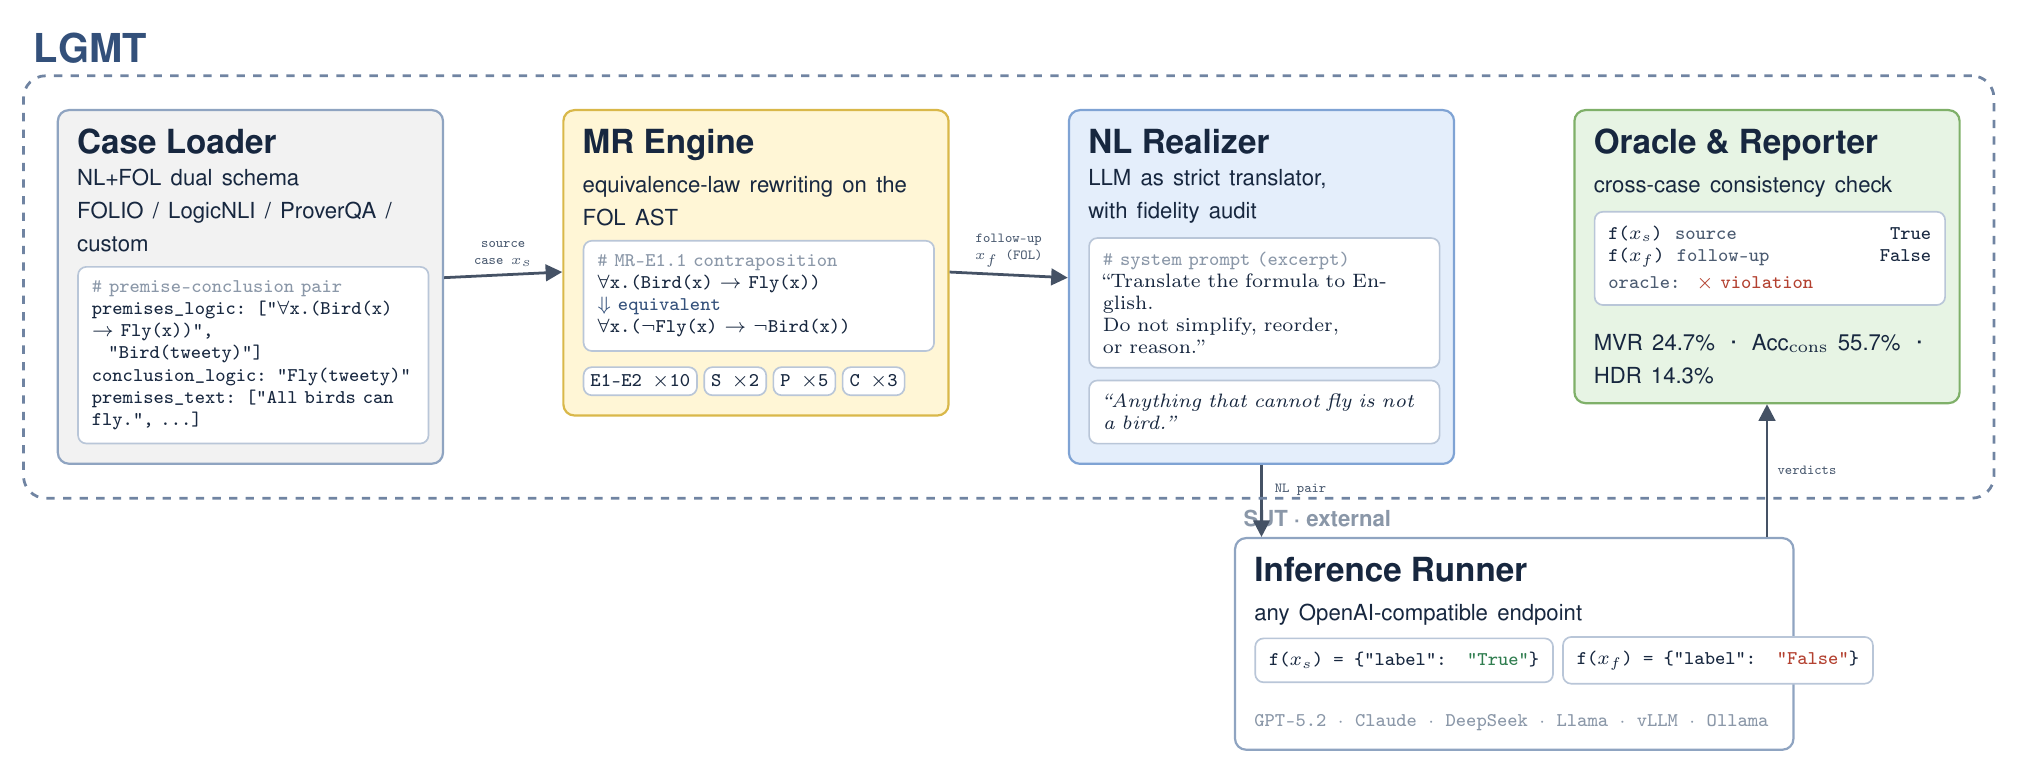
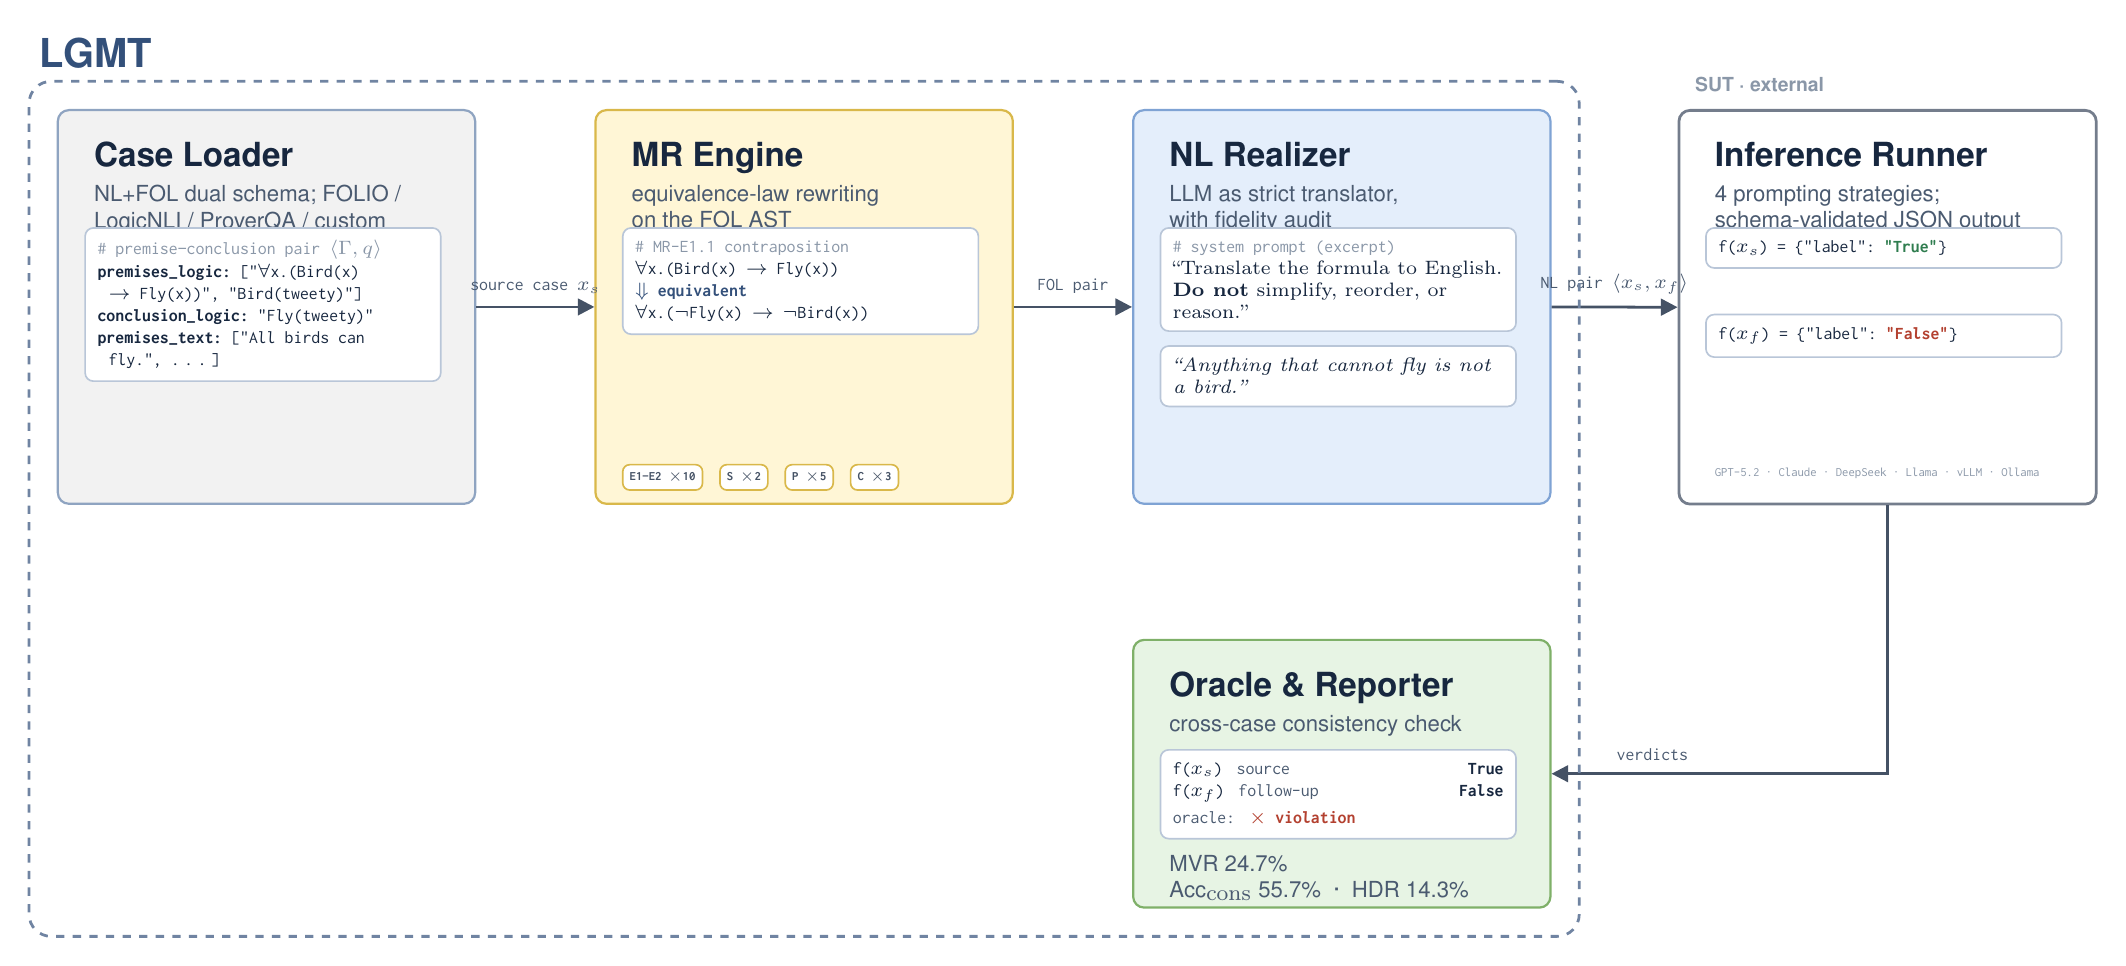
docs: TikZ architecture figure v3 — linear trio + external SUT loop-back, progressive edge labels (source case → FOL pair → NL pair → verdicts)

Changed region(s): [[0.0, 0.031, 0.999, 0.9935], [0.8741, 0.5899, 0.9054, 0.652], [0.8741, 0.6831, 0.9054, 0.7141]]

diff --git a/docs/architecture.tex b/docs/architecture.tex
@@ -1,11 +1,12 @@
-% LGMT architecture figure (TikZ, standalone).
+% LGMT architecture figure (TikZ, standalone, single-layer positioning).
 % Build PDF:  pdflatex fig-architecture.tex
 % Build PNG:  pdftoppm -png -r 200 fig-architecture.pdf architecture
-\documentclass[border=8pt]{standalone}
+\documentclass[border=10pt]{standalone}
 \usepackage{tikz}
 \usetikzlibrary{positioning,fit,arrows.meta,calc}
 \usepackage[T1]{fontenc}
 \usepackage{helvet}\renewcommand{\familydefault}{\sfdefault}
+\usepackage[varqu,varl,scaled=0.92]{inconsolata}
 
 \definecolor{ink}{HTML}{17273F}
 \definecolor{mute}{HTML}{4A5A70}
@@ -23,92 +24,89 @@
 \definecolor{okgreen}{HTML}{2F7D4F}
 
 \begin{document}
+\hyphenpenalty=10000\exhyphenpenalty=10000
 \begin{tikzpicture}[
   font=\sffamily,
-  stage/.style={draw, rounded corners=4pt, line width=0.8pt, align=left,
-                inner sep=7pt, text=ink},
+  stage/.style={draw, rounded corners=4pt, line width=0.8pt, text=ink,
+                minimum width=53mm, minimum height=50mm, inner sep=0pt},
+  stagetitle/.style={font=\sffamily\bfseries\large, text=ink, anchor=north west},
+  stagesub/.style={font=\sffamily\footnotesize, text=mute, anchor=north west, align=flush left},
   art/.style={draw=bd, fill=white, rounded corners=3pt, line width=0.6pt,
-              font=\ttfamily\scriptsize, align=left, inner sep=5pt, text=ink},
-  lbl/.style={font=\ttfamily\tiny, text=mute, align=center},
+              font=\ttfamily\scriptsize, align=flush left, inner sep=4.5pt, text=ink,
+              anchor=north west, text width=42mm},
+  chip/.style={draw=cyelb, fill=white, rounded corners=2.5pt, line width=0.6pt,
+               font=\ttfamily\tiny\bfseries, inner sep=2.5pt, text=ink!80, anchor=west},
+  lbl/.style={font=\ttfamily\scriptsize, text=mute, align=center},
   flow/.style={-{Triangle[length=6pt,width=6pt]}, line width=1pt, draw=ink!80},
 ]
 
-% ===================== pipeline stages (inside LGMT box) =====================
-\node[stage, fill=cgray, draw=bd!160, text width=44mm] (s1) {
-  {\bfseries\large Case Loader}\\[2pt]
-  {\footnotesize NL+FOL dual schema\\ FOLIO / LogicNLI / ProverQA / custom}\\[4pt]
-  \begin{tikzpicture}
-    \node[art, text width=41mm] {\textcolor{faded}{\# premise--conclusion pair}\\
-      \textbf{premises\_logic:} ["$\forall$x.(Bird(x) $\to$ Fly(x))",\\
-      \hspace*{6pt}"Bird(tweety)"]\\
-      \textbf{conclusion\_logic:} "Fly(tweety)"\\
-      \textbf{premises\_text:} ["All birds can fly.", \ldots]};
-  \end{tikzpicture}
-};
+% ===================== Stage 1: Case Loader =====================
+\node[stage, fill=cgray, draw=bd!160] (s1) at (0,0) {};
+\node[stagetitle] at ($(s1.north west)+(3.5mm,-3mm)$) {Case Loader};
+\node[stagesub] at ($(s1.north west)+(3.5mm,-8.5mm)$) {NL+FOL dual schema; FOLIO /\\ LogicNLI / ProverQA / custom};
+\node[art] (a1) at ($(s1.north west)+(3.5mm,-15mm)$) {
+  \textcolor{faded}{\# premise--conclusion pair $\langle\Gamma,q\rangle$}\\
+  \textbf{premises\_logic:} ["$\forall$x.(Bird(x)\\ \hspace*{4pt}$\to$ Fly(x))", "Bird(tweety)"]\\
+  \textbf{conclusion\_logic:} "Fly(tweety)"\\
+  \textbf{premises\_text:} ["All birds can\\ \hspace*{4pt}fly.", \ldots]};
 
-\node[stage, fill=cyellow, draw=cyelb, text width=44mm, right=15mm of s1.north east, anchor=north west] (s2) {
-  {\bfseries\large MR Engine}\\[2pt]
-  {\footnotesize equivalence-law rewriting on the FOL AST}\\[4pt]
-  \begin{tikzpicture}
-    \node[art, text width=41mm] {\textcolor{faded}{\# MR-E1.1 contraposition}\\
-      $\forall$x.(Bird(x) $\to$ Fly(x))\\
-      \textcolor{lgmtc}{\textbf{$\Downarrow$ equivalent}}\\
-      $\forall$x.($\neg$Fly(x) $\to$ $\neg$Bird(x))};
-  \end{tikzpicture}\\[4pt]
-  \begin{tikzpicture}
-    \node[art, inner sep=2.5pt] (c1) {\textbf{E1--E2 $\times$10}};
-    \node[art, inner sep=2.5pt, right=2pt of c1] (c2) {\textbf{S $\times$2}};
-    \node[art, inner sep=2.5pt, right=2pt of c2] (c3) {\textbf{P $\times$5}};
-    \node[art, inner sep=2.5pt, right=2pt of c3] {\textbf{C $\times$3}};
-  \end{tikzpicture}
-};
+% ===================== Stage 2: MR Engine (hero) =====================
+\node[stage, fill=cyellow, draw=cyelb, right=15mm of s1.north east, anchor=north west] (s2) {};
+\node[stagetitle] at ($(s2.north west)+(3.5mm,-3mm)$) {MR Engine};
+\node[stagesub] at ($(s2.north west)+(3.5mm,-8.5mm)$) {equivalence-law rewriting\\ on the FOL AST};
+\node[art] (a2) at ($(s2.north west)+(3.5mm,-15mm)$) {
+  \textcolor{faded}{\# MR-E1.1 contraposition}\\
+  $\forall$x.(Bird(x) $\to$ Fly(x))\\
+  \textcolor{lgmtc}{\textbf{$\Downarrow$ equivalent}}\\
+  $\forall$x.($\neg$Fly(x) $\to$ $\neg$Bird(x))};
+\node[chip] (c1) at ($(s2.south west)+(3.5mm,3.5mm)$) {E1--E2 $\times$10};
+\node[chip, right=2mm of c1] (c2) {S $\times$2};
+\node[chip, right=2mm of c2] (c3) {P $\times$5};
+\node[chip, right=2mm of c3] (c4) {C $\times$3};
 
-\node[stage, fill=cblue, draw=cblub, text width=44mm, right=15mm of s2.north east, anchor=north west] (s3) {
-  {\bfseries\large NL Realizer}\\[2pt]
-  {\footnotesize LLM as strict translator,\\ with fidelity audit}\\[4pt]
-  \begin{tikzpicture}
-    \node[art, text width=41mm] {\textcolor{faded}{\# system prompt (excerpt)}\\
-      \textrm{``Translate the formula to English.\\ Do not simplify, reorder,\\ or reason.''}};
-    \node[art, text width=41mm, below=4pt of current bounding box.south]
-      {\textrm{\textit{``Anything that cannot fly is not a bird.''}}};
-  \end{tikzpicture}
-};
+% ===================== Stage 3: NL Realizer =====================
+\node[stage, fill=cblue, draw=cblub, right=15mm of s2.north east, anchor=north west] (s3) {};
+\node[stagetitle] at ($(s3.north west)+(3.5mm,-3mm)$) {NL Realizer};
+\node[stagesub] at ($(s3.north west)+(3.5mm,-8.5mm)$) {LLM as strict translator,\\ with fidelity audit};
+\node[art] (a3a) at ($(s3.north west)+(3.5mm,-15mm)$) {
+  \textcolor{faded}{\# system prompt (excerpt)}\\
+  \textrm{``Translate the formula to English.}\\
+  \textrm{\textbf{Do not} simplify, reorder, or reason.''}};
+\node[art] (a3b) at ($(s3.north west)+(3.5mm,-30mm)$) {
+  \textrm{\textit{``Anything that cannot fly is not a bird.''}}};
 
-\node[stage, fill=cgreen, draw=cgrnb, text width=44mm, right=15mm of s3.north east, anchor=north west] (s5) {
-  {\bfseries\large Oracle \& Reporter}\\[2pt]
-  {\footnotesize cross-case consistency check}\\[4pt]
-  \begin{tikzpicture}
-    \node[art, text width=41mm] {
-      f($x_s$) \textcolor{mute}{\;source} \hfill \textbf{True}\\
-      f($x_f$) \textcolor{mute}{\;follow-up} \hfill \textbf{False}\\[2pt]
-      \textcolor{mute}{oracle:}\; \textcolor{badred}{\textbf{$\times$ violation}}};
-  \end{tikzpicture}\\[4pt]
-  {\footnotesize MVR 24.7\% \;·\; Acc$_\mathrm{cons}$ 55.7\% \;·\; HDR 14.3\%}
-};
-
-% ===================== flow arrows =====================
-\draw[flow] (s1) -- (s2) node[lbl, midway, above=-1pt] {source\\case $x_s$};
-\draw[flow] (s2) -- (s3) node[lbl, midway, above=-1pt] {follow-up\\$x_f$ (FOL)};
-
-% ===================== external SUT below =====================
-\node[stage, fill=white, draw=bd!160, text width=66mm, below=13mm of $(s3.south)!0.5!(s5.south)$] (s4) {
-  {\bfseries\large Inference Runner}\\[2pt]
-  {\footnotesize any OpenAI-compatible endpoint}\\[3pt]
-  \begin{tikzpicture}
-    \node[art] {f($x_s$) = \{"label": \textcolor{okgreen}{\textbf{"True"}}\}};
-    \node[art, right=3pt of current bounding box.east] {f($x_f$) = \{"label": \textcolor{badred}{\textbf{"False"}}\}};
-  \end{tikzpicture}\\[3pt]
-  {\ttfamily\scriptsize\textcolor{faded}{GPT-5.2 · Claude · DeepSeek · Llama · vLLM · Ollama}}
-};
-\node[font=\sffamily\bfseries\footnotesize, text=faded, anchor=south west]
+% ===================== Stage 4 (SUT): external, right =====================
+\node[stage, fill=white, draw=ink!60, line width=1pt, right=16mm of s3.north east, anchor=north west] (s4) {};
+\node[stagetitle] at ($(s4.north west)+(3.5mm,-3mm)$) {Inference Runner};
+\node[stagesub] at ($(s4.north west)+(3.5mm,-8.5mm)$) {4 prompting strategies;\\ schema-validated JSON output};
+\node[art] (a4a) at ($(s4.north west)+(3.5mm,-15mm)$) {f($x_s$) = \{"label": \textcolor{okgreen}{\textbf{"True"}}\}};
+\node[art] (a4b) at ($(s4.north west)+(3.5mm,-26mm)$) {f($x_f$) = \{"label": \textcolor{badred}{\textbf{"False"}}\}};
+\node[stagesub, font=\ttfamily\tiny, text=faded] at ($(s4.south west)+(3.5mm,6mm)$)
+  {GPT-5.2 · Claude · DeepSeek · Llama · vLLM · Ollama};
+\node[font=\sffamily\bfseries\scriptsize, text=faded, anchor=south west, xshift=1mm, yshift=1mm]
   at (s4.north west) {SUT · external};
 
-\draw[flow] (s3.south) -- node[lbl, right=1pt, pos=0.35] {NL pair} (s3.south |- s4.north);
-\draw[flow] (s4.north -| s5.south) -- node[lbl, right] {verdicts} (s5.south);
+% ===================== Stage 5: Oracle & Reporter (inside box, below s3) =====================
+\node[stage, fill=cgreen, draw=cgrnb, minimum height=34mm, below=17mm of s3.south west, anchor=north west] (s5) {};
+\node[stagetitle] at ($(s5.north west)+(3.5mm,-3mm)$) {Oracle \& Reporter};
+\node[stagesub] at ($(s5.north west)+(3.5mm,-8.5mm)$) {cross-case consistency check};
+\node[art] (a5) at ($(s5.north west)+(3.5mm,-14mm)$) {
+  f($x_s$) \textcolor{mute}{\;source}\hfill \textbf{True}\\
+  f($x_f$) \textcolor{mute}{\;follow-up}\hfill \textbf{False}\\[2pt]
+  \textcolor{mute}{oracle:}\; \textcolor{badred}{$\times$ \textbf{violation}}};
+\node[stagesub, align=flush left] at ($(s5.south west)+(3.5mm,8mm)$)
+  {\footnotesize MVR 24.7\%\\
+   \footnotesize Acc$_\textrm{cons}$ 55.7\% \;·\; HDR 14.3\%};
+
+% ===================== flow arrows =====================
+\draw[flow] (s1.east) -- (s2.west) node[lbl, midway, above=1pt] {source case $x_s$};
+\draw[flow] (s2.east) -- (s3.west) node[lbl, midway, above=1pt] {FOL pair};
+\draw[flow] (s3.east) -- (s4.west) node[lbl, midway, above=1pt] {NL pair $\langle x_s,x_f\rangle$};
+\draw[flow] (s4.south) |- node[lbl, pos=0.85, above=1pt] {verdicts} (s5.east);
 
 % ===================== dashed LGMT container =====================
 \node[draw=lgmtc!70, dashed, line width=1pt, rounded corners=8pt,
-      fit=(s1)(s2)(s3)(s5), inner sep=12pt] (box) {};
+      fit=(s1)(s2)(s3)(s5), inner sep=10pt] (box) {};
 \node[font=\sffamily\bfseries\Large, text=lgmtc, fill=white, inner sep=4pt,
       anchor=south west] at (box.north west) {LGMT};
 
